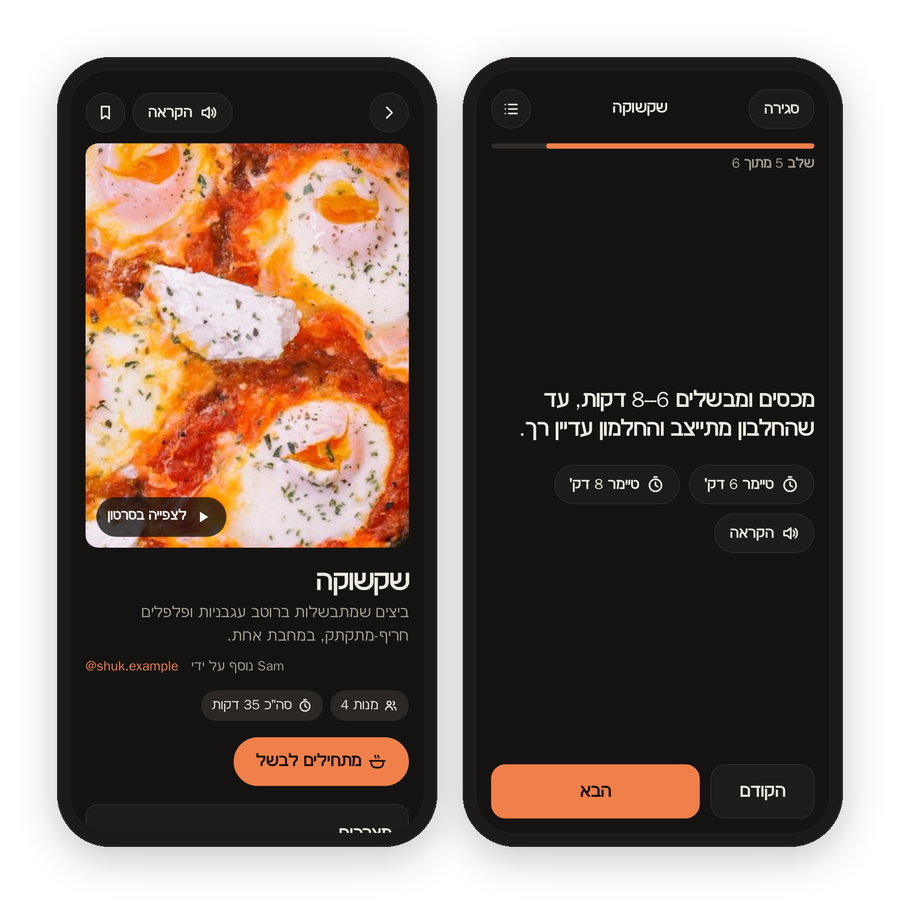
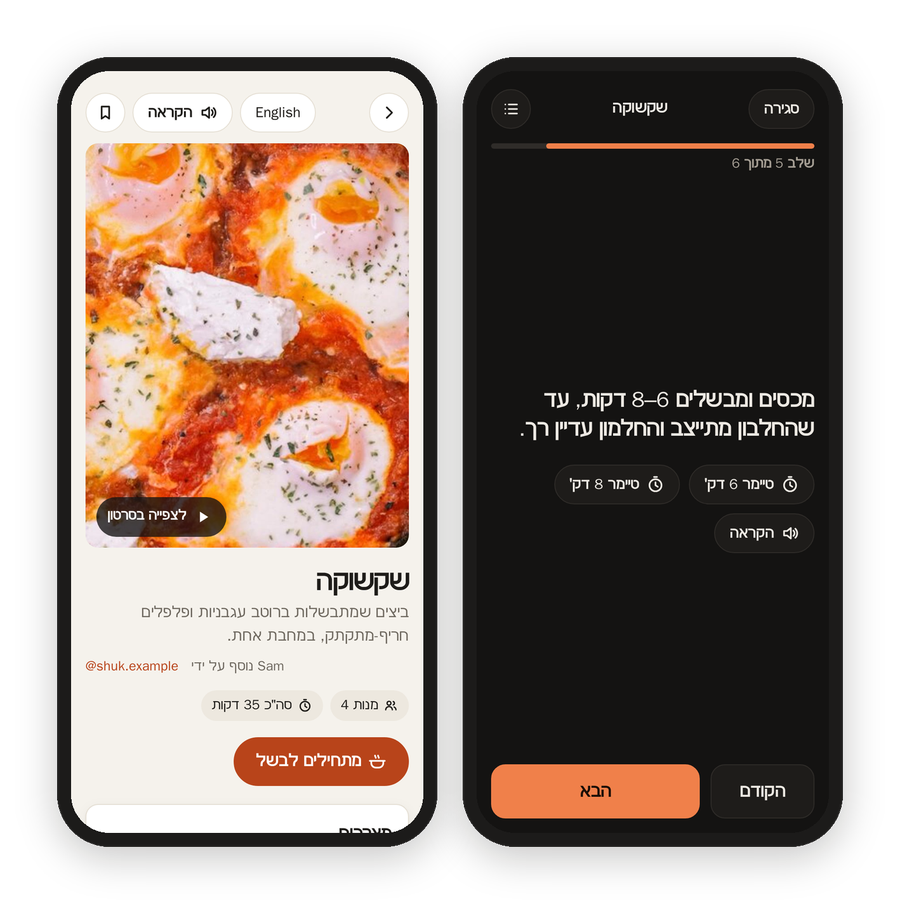
The guide: docs/ for docs.tiresia.xyz
What Matkon is, accounts and invites, recipes, cooking, memory and
history, settings, from reel to recipe, and Obsidian notes, with framed
screens from the demo. The front page links them.

Changed region(s): [[0.0622, 0.0619, 0.4978, 0.9292]]

diff --git a/tools/readme_images.py b/tools/readme_images.py
@@ -4,7 +4,7 @@ screens get a device frame and a soft shadow, and the hero puts a tablet between
 
   python3 tools/readme_images.py <shots dir>      needs Pillow
 The shots it expects: home, ramen, cook, cook-dark, he, he-cook, home-tab, cookies-tab, missing (full),
-cookies-full (full), history, imported, cookdone, settings (full).
+cookies-full (full), history, imported, cookdone, settings (full), and for docs/: signin, join, he-en.
 """
 import shutil
 import sys
@@ -132,6 +132,13 @@ def main():
     m = m.crop((0, 1580, m.width, min(m.height, 3880)))
     card, _ = shadowed(rounded(m, 40), blur=26, offset=(0, 14), alpha=55)
     save(card, "missing.png", 700)
+
+    # single phones for the guide pages in docs/
+    for name, out in [("signin", "signin.png"), ("join", "join.png"), ("cook", "cook.png"), ("he-en", "english.png"),
+                      ("settings", "settings.png"), ("history", "history.png"), ("home", "home.png")]:
+        if (shots / f"{name}.png").exists():
+            p, _ = shadowed(phone(shots / f"{name}.png", 1200), blur=30, offset=(0, 16), alpha=60)
+            save(p, out, 520)
 
     shutil.copyfile(ROOT / "app" / "icon-512.png", OUT / "icon.png")
     print("icon.png")

diff --git a/docs/how-it-works.md b/docs/how-it-works.md
@@ -1,0 +1,35 @@
+<sub>[Matkon docs](README.md) › How it works</sub>
+
+# From reel to recipe
+
+![Save, Watch, Follow, Write, Cook](images/how-it-works.svg)
+
+Every hour during the day, Matkon looks at the newest saved posts of everyone who connected Instagram, and once a week at all of them. Each new reel in a recipe collection goes through these steps, one after the other. Each step leaves its file behind, so if something stops halfway, the next run picks up where it left off.
+
+1. **The video.** yt-dlp downloads the reel with the sign-in of whoever added it.
+2. **What's said.** faster-whisper writes out the speech, on the server itself. A silent reel just skips this.
+3. **What's on screen.** A frame every second and a half (32 at most), four to a sheet, so the words the creator puts on screen can be read.
+4. **The linked page.** When the caption links the creator's own recipe page ("full recipe on my blog"), Matkon reads it once. Recipe sites usually carry the recipe as data for search engines, with every amount, and Matkon takes that when it's there. A link to a Substack's front page gets a search of that Substack for the dish. A page behind a paywall gives what it gives.
+5. **The recipe.** Claude gets the caption, what's said, the frame sheets and the linked page in one message, with no tools at all, and writes the recipe back as data. It also picks the frame where the finished dish fills the picture, which becomes the photo.
+6. **The note** in the owner's Obsidian vault. See [Obsidian notes](obsidian-notes.md).
+7. **The English version,** when the recipe is in Hebrew. Claude translates it, and Matkon checks that it has the same ingredient groups, ingredients, steps and tips in the same order, and the same timers, before keeping it.
+
+## Only what the reel says
+
+This is the one rule that matters. Claude is told to use only the caption, the speech, the words on screen, what's plainly shown and the creator's own page, and never to estimate an amount, a time, a temperature or a number of servings.
+
+- An ingredient with no amount says **no amount**.
+- **Not in the reel** lists what a cook would still need: "how much spaghetti and how many mushrooms", "how long to brown them".
+- A recipe is marked complete only when every ingredient has its amount (or "to taste") and there are steps. Otherwise its card says **Missing amounts**.
+- Calories and protein are copied only as the reel states them.
+- A reel that isn't a recipe at all (someone showing off their pans, say) is kept out of the list.
+
+<p align="center"><img src="images/missing.png" width="340" alt="A mushroom spaghetti recipe whose reel says to comment PASTA: every ingredient with no amount, and the Not in the reel list"></p>
+
+Plenty of creators keep the amounts for "comment RECIPE and I'll DM you," so a lot of recipes come out with something missing. Basically, the page tells you exactly what to fill in yourself, instead of quietly making it up.
+
+## Languages
+
+Hebrew reels are written in Hebrew, and get their English version in step 7. Reels in any other language (Turkish, Arabic, Spanish…) come out in English straight away. A dish's own name stays its name: Shakshuka, Pad Kra Pao, Tarte Tatin.
+
+Next: [Obsidian notes](obsidian-notes.md)

diff --git a/docs/settings.md b/docs/settings.md
@@ -1,0 +1,48 @@
+<sub>[Matkon docs](README.md) › Using it</sub>
+
+# Settings
+
+The gear at the top of every page opens Settings. Everything here is for your own account, except the last two parts, which only the owner sees.
+
+<p align="center"><img src="images/settings.png" width="300" alt="Settings: Account with name, username and password, and Display"></p>
+
+## Account
+
+- **Name:** how you show up to everyone else ("Added by Sara").
+- **Email:** for signing in with it and for a forgotten password. A new email gets a 6-digit code first, to make sure it's yours.
+- **Password:** your current one, then the new one. Changing it signs this account out on every other device.
+- **Sign out.**
+
+## Display
+
+- **Calories and protein:** off means you never see nutrition numbers on any recipe, even when the reel gives them. They're taken out before the recipe even reaches your device.
+- **Hebrew recipes in English:** on means Hebrew recipes open in English, and their cards show the English names. The button on each recipe still switches back.
+
+## Instagram
+
+This is how your own saved reels join the kitchen.
+
+1. **Connect:** give Matkon your Instagram sign-in as a `cookies.txt` file, from a browser that's signed in to Instagram. Any extension that exports cookies.txt will do; choose the file or paste what's in it, and tap **Connect**.
+2. **Find my collections:** Matkon looks through your saved posts (it takes a minute or two) and lists your collections, each with a few of its captions so you can tell which one is the recipes. Instagram doesn't hand out collection names anymore, which is why it shows captions.
+3. **Tap your recipe collection** to pick it. From then on the hourly run reads it with your sign-in, and its reels join the kitchen with your name on them.
+
+If Instagram ever turns the sign-in away, this part says **Sign-in lapsed** and the home page says so too, and nothing new comes in until you connect again.
+
+## Add a reel
+
+Paste the link of any Instagram reel and tap **Add**, even one that isn't in a collection. It shows up in the kitchen a few minutes later.
+
+## Kitchen (the owner)
+
+- **Check now:** reads the collections right away, instead of waiting for the hour.
+- **Pages each hour:** how many pages of newest saves an hourly run looks at (21 posts a page).
+- **Every save, every (hours):** how often a run looks through every saved post, for an old save moved into a collection (168 is once a week).
+- **Reels each run:** how many reels a run works through at most.
+- **Notes folder, Photos folder, Note tag:** where the Obsidian notes go, and a tag for them. See [Obsidian notes](obsidian-notes.md).
+- **App address:** Matkon's own address, for the link in each note and in invites.
+
+## Accounts (the owner)
+
+Everyone's accounts, with a new password or a bin for each, **Invite** by email, and **New account** by hand. See [Accounts and invites](accounts-and-invites.md).
+
+Next: [From reel to recipe](how-it-works.md)

diff --git a/docs/recipes.md b/docs/recipes.md
@@ -1,0 +1,44 @@
+<sub>[Matkon docs](README.md) › Using it</sub>
+
+# Recipes
+
+## The home page
+
+Every recipe in the kitchen, newest first, as cards with the photo, the dish and the creator. A card says **Missing amounts** when the reel didn't give them all, and the little marks on the photo are yours: saved, made, and your rating.
+
+<p align="center"><img src="images/home.png" width="300" alt="The home page: search, kinds, the Up next row and recipe cards"></p>
+
+- **Search** looks at the dish, the creator, the cuisine and every ingredient, so "chickpeas" finds the hummus. Hebrew recipes are found by their English words too.
+- **The kinds** under the search are All, Saved, Made, and then Breakfast, Mains, Salads & sides, Soups, Bread & dough, Baking & sweets, Snacks, Sauces & dips and Drinks.
+- **Up next** is a row of what to make, picked from what you save, cook and rate. See [Memory and history](memory-and-history.md#up-next).
+
+## A recipe
+
+The top of a recipe has the photo (a still of the finished dish from the reel), the name, a line about what it is, the creator's account and their recipe page when there is one, and the facts the reel gives: how many it serves or makes, the times, the oven.
+
+- **Watch the reel** plays the video right there.
+- **Start cooking** opens [cooking mode](cooking.md). If you were in the middle of it, it says **Continue · step 4**.
+- **Ingredients** tick off as you tap them, and the ticks are remembered on all your devices for 12 hours.
+- **Steps** come with a timer button wherever a step gives a time.
+- **Tips** are the creator's own asides.
+- **Nutrition** shows only when the reel states it, and only if your account has it on.
+- **Not in the reel** lists what a cook would still need that the reel didn't give, like "how much butter and garlic".
+- **Mine** is yours: I made it, a rating and notes. See [Memory and history](memory-and-history.md).
+
+![A recipe on a tablet](images/tablet.png)
+
+On a tablet or a computer, the photo stays on the side and the ingredients and steps sit next to each other.
+
+## Hebrew and English
+
+A Hebrew recipe has a button at the top that says **English**. It switches the whole page to an English version, left to right, and the button turns into **עברית** to switch back. Your ticks, notes and place in the steps stay the same, because the English version has the same ingredients and steps in the same order. Cooking mode follows whichever one you picked.
+
+<p align="center"><img src="images/english.png" width="300" alt="A shakshuka recipe in English, with the עברית button at the top"></p>
+
+If you'd rather always read Hebrew recipes in English, turn on **Hebrew recipes in English** in [Settings](settings.md).
+
+## Read aloud
+
+**Read aloud** at the top reads the whole recipe, the ingredients then the steps, in the browser's own voice (a Hebrew voice for a Hebrew recipe, if the device has one).
+
+Next: [Cooking](cooking.md)

diff --git a/docs/what-is-matkon.md b/docs/what-is-matkon.md
@@ -1,0 +1,32 @@
+<sub>[Matkon docs](README.md) › Getting started</sub>
+
+# What is Matkon?
+
+Matkon (מתכון, Hebrew for "recipe") takes the cooking reels I save to my "Recipes" collection on Instagram and turns each one into a real recipe page: the ingredients with their amounts, the steps in order, the creator's tips, and the reel itself one tap away. I save a reel the way I always do, and within the hour it's in Matkon, and in my Obsidian vault too.
+
+![Matkon on a tablet between two phones](images/hero.png)
+*The home page, a recipe on a tablet, and cooking mode in the dark.*
+
+## What it does
+
+- **Reads the collection on its own,** every hour during the day, so I never send it anything.
+- **Writes down only what the reel gives.** If the creator never says how much flour, the page says "no amount" and lists it under "Not in the reel," instead of guessing. See [From reel to recipe](how-it-works.md).
+- **Finds the real recipe** on the creator's blog or newsletter when the caption links one, since that's usually where the amounts are.
+- **Cooking mode,** one step at a time, with that step's amounts right under it and timers. See [Cooking](cooking.md).
+- **Remembers,** on every device: what you saved, made, rated and wrote down. See [Memory and history](memory-and-history.md).
+- **Hebrew and English.** Hebrew reels stay in Hebrew, right to left, and each one also has an English version one tap away.
+- **One kitchen for the whole house.** Everyone has their own account, and anyone can add their own Instagram collection to it. See [Accounts and invites](accounts-and-invites.md).
+
+## Where you open it
+
+Matkon is a web page, so it works on a phone, a tablet or a computer, in light or dark mode. Mine is at my own address, and it only opens for people with an account. On a phone, "Add to Home Screen" makes it open like an app.
+
+## Signing in
+
+Everyone signs in with a username (or their email) and a password, once on each device. It stays signed in for a year, unless the password changes, which signs that account out everywhere.
+
+<p align="center"><img src="images/signin.png" width="300" alt="The sign-in page: username or email, password, Sign in, and I have a code and Forgot password underneath"></p>
+
+There's no open sign-up. I invite people by email, and they join with the code. See [Accounts and invites](accounts-and-invites.md).
+
+Next: [Accounts and invites](accounts-and-invites.md)

diff --git a/docs/obsidian-notes.md b/docs/obsidian-notes.md
@@ -1,0 +1,36 @@
+<sub>[Matkon docs](README.md) › How it works</sub>
+
+# Obsidian notes
+
+When the owner gives Matkon an Obsidian vault, every recipe also becomes a note in it, next to the recipes already there, so a Bases view of your Recipes lists them with everything else.
+
+## What's in a note
+
+The front matter is the usual recipe kind, so a Bases view picks it up:
+
+| Key | What it holds |
+| --- | --- |
+| `categories` | `[[Recipes]]` |
+| `cuisine`, `type` | the cuisine, and the kind plus a few tags |
+| `ingredients` | the three to six main ingredients |
+| `author` | the creator's account |
+| `url` | the reel |
+| `image` | the photo, saved in the photos folder |
+| `rating`, `cooked`, `last` | the owner's rating, whether they've made it, and when they last did |
+| `tags` | `recipes` and `instagram-reels` |
+| `matkon` | the reel's code, which is how Matkon finds the note again |
+
+The body has the photo, the facts (serves, times, oven), the ingredients, the steps (numbered), the tips, the nutrition when the reel gives it, **Not in the reel**, the links to the reel, the creator's page and the recipe in Matkon, and a **Notes** heading at the end. A Hebrew recipe's note is in Hebrew, with Hebrew headings. A tag of your choice can go on its own line above the title (Settings › Kitchen).
+
+## What Matkon will and won't change
+
+- **The note is found by its `matkon:` line,** wherever you've moved it.
+- **Once you edit the body, it's yours.** Matkon only rewrites a note while its body is still exactly what Matkon wrote, and leaves it alone the moment you change a word.
+- **The front matter stays yours.** Obsidian's plugins reformat front matter on their own (quotes, an `updated:` line), so Matkon never judges a note by it and keeps it as it is when it refreshes the body.
+- **Your rating, cooked and last** are the only front matter keys Matkon writes, whenever you rate or make a recipe in the app.
+- **Your notes from the app** go under the Notes heading, while the body is still Matkon's.
+- **A note with the same name already there** (say you already wrote your own Shakshuka) stays put, and Matkon's comes in as "Shakshuka (@the.creator)" next to it.
+
+Only the owner's memory goes into the notes, since the vault is theirs. Everyone else's stays in Matkon.
+
+Next: [Developing and running it](DEVELOPING.md)

diff --git a/docs/memory-and-history.md b/docs/memory-and-history.md
@@ -1,0 +1,41 @@
+<sub>[Matkon docs](README.md) › Using it</sub>
+
+# Memory and history
+
+Matkon remembers things for each account, on the server, so your phone, your tablet and your computer all see the same thing.
+
+![History, imports, rating and notes after cooking, and Settings](images/memory.png)
+
+## What it remembers
+
+- **Saved:** the bookmark at the top of a recipe. Saved recipes have their own kind on the home page.
+- **Made:** "I made it" on a recipe (or **Done** at the end of cooking mode) counts it, with the date. The recipe then says "Made 3 times · 2 Nov".
+- **Rating:** 1 to 10, under "Mine" on the recipe. Tap the same number again to take it away.
+- **Notes:** your own words under "Mine". They save as you type.
+- **Ticked ingredients and the step you're on,** for 12 hours, so the next time you cook it starts fresh.
+- **What you opened lately.**
+
+For the owner, the rating, "made" and the notes also go into the recipe's Obsidian note. See [Obsidian notes](obsidian-notes.md).
+
+## Up next
+
+The row at the top of the home page is Matkon's guess at what you'd want to make, from what you've done so far. Each one says why:
+
+- **Saved:** you saved it and never made it.
+- **Not made since 12 Oct:** you rated it 8 or more, and it's been a couple of weeks.
+- **Like Brown Butter Cookies:** it shares a kind, a cuisine or main ingredients with the ones you rate highly or keep making.
+- **New:** it came in during the last 10 days and you haven't opened it.
+
+It leaves out anything you rated 4 or less, and anything you made in the last 5 days. The more you save, cook and rate, the better it gets.
+
+## History
+
+The clock at the top of every page opens History, with three tabs:
+
+<p align="center"><img src="images/history.png" width="300" alt="History, Cooked: five recipes with the dates they were made"></p>
+
+- **Cooked:** everything you made, newest first, with the date. The bin on a line takes it away, for the time you tapped "I made it" by mistake.
+- **Viewed:** what you opened lately.
+- **Imported:** every time Matkon brought recipes in, with who added them, and anything that went wrong (a reel it couldn't get, or an Instagram sign-in that lapsed).
+
+Next: [Settings](settings.md)

diff --git a/docs/accounts-and-invites.md b/docs/accounts-and-invites.md
@@ -1,0 +1,36 @@
+<sub>[Matkon docs](README.md) › Getting started</sub>
+
+# Accounts and invites
+
+Matkon is one kitchen for a few people. Everyone sees every recipe, and each person has their own account, with their own saved recipes, notes, ratings, history and suggestions. Nobody can sign up on their own: the owner invites them.
+
+## Joining with an invite
+
+When I invite you, you get an email from Matkon with a code like `KSYP-F8FN` and a link.
+
+1. Open the link. Matkon opens with your email and the code already filled in.
+2. Add your name, pick a username and a password (at least 8 characters), and tap **Join**.
+
+That's it, you're in. If the link doesn't open, go to Matkon, tap **I have a code**, and type your email and the code yourself. The code works for 7 days, and only once.
+
+<p align="center"><img src="images/join.png" width="300" alt="Joining: email and code filled in, then name, username and password, and Join"></p>
+
+## Signing in with your email
+
+You can sign in with your username or with your email, whichever you remember.
+
+## A forgotten password
+
+Tap **Forgot password** on the sign-in page and type your email. Matkon sends a 6-digit code that works for 15 minutes; type it with a new password and you're signed in. This needs an email on your account: if you joined with an invite, you have one, and otherwise you can add it in [Settings](settings.md).
+
+## Inviting someone (the owner)
+
+In **Settings › Accounts › Invite**, type their email and, if you like, their name, and tap **Send invite**. The invite waits in the list until they join, and you can cancel it there. If the email can't go out for some reason, Matkon shows you the code and the link so you can send them yourself.
+
+The owner can also make an account by hand (name, username and password), set a new password for someone, or remove an account.
+
+## Your own Instagram, too
+
+Anyone can connect their own Instagram and pick one of their saved collections, and the reels in it join the kitchen with their name on them ("Added by Sara"). See [Settings](settings.md#instagram).
+
+Next: [Recipes](recipes.md)

diff --git a/docs/README.md b/docs/README.md
@@ -1,0 +1,26 @@
+<p align="center"><img src="images/icon.png" width="72" alt=""></p>
+<h1 align="center">Matkon docs</h1>
+<p align="center">How Matkon turns saved cooking reels into recipes, and how to cook, remember and share with it.</p>
+
+These pages are how Matkon works, written down. It takes the cooking reels I save on Instagram and turns each one into a recipe I can actually cook from. If something here doesn't match what Matkon does, Matkon wins, and I fix the page.
+
+### Getting started
+- [What is Matkon?](what-is-matkon.md): what it does, where you open it, and signing in
+- [Accounts and invites](accounts-and-invites.md): joining with an invite, signing in with your email, and a forgotten password
+- [Why I made it](../README.md#why-i-made-it): the story, on the front page
+
+### Using it
+- [Recipes](recipes.md): the home page, search, a recipe, the reel, and Hebrew or English
+- [Cooking](cooking.md): one step at a time, with the amounts, timers and read-aloud
+- [Memory and history](memory-and-history.md): saving, "I made it", ratings, notes, Up next, and History
+- [Settings](settings.md): your account, what you see, Instagram, adding a reel, and the kitchen
+
+### How it works
+- [From reel to recipe](how-it-works.md): every step a reel goes through, and the "only what the reel says" rule
+- [Obsidian notes](obsidian-notes.md): the note each recipe gets, and what Matkon will and won't change in it
+
+### Under the hood
+- [Setting it up](../README.md#setting-it-up): the install, the cookies file and the first run, on the front page
+- [Developing and running it](DEVELOPING.md): the files, the state folder, the traps, and the pictures
+
+Start with [What is Matkon?](what-is-matkon.md).

diff --git a/README.md b/README.md
@@ -17,7 +17,7 @@
   <a href="#how-it-works">How it works</a> ·
   <a href="#setting-it-up">Setting it up</a> ·
   <a href="#settings">Settings</a> ·
-  <a href="docs/DEVELOPING.md">Developing</a>
+  <a href="docs/README.md"><b>Docs</b></a>
 </p>
 
 <img src="docs/images/hero.png" alt="Matkon on a phone, a tablet and a phone in dark mode: the home page with recipe cards, a recipe for brown butter chocolate chip cookies with its ingredients and steps, and cooking mode on the first step of a miso ramen">
@@ -170,6 +170,10 @@ Under the hood there are two small files. **`matkon.env`**, for where things are
 - The pages hold other people's videos and recipes, so keep the kitchen to your own people. Everything but the sign-in page needs an account, and if you open it to the internet, do it over HTTPS (a Cloudflare Tunnel works well), so the sign-in cookie stays secure.
 - Your notes, ratings and what you cooked go into the owner's Obsidian notes too (front matter `rating`, `cooked`, `last`, and the Notes heading), as long as you haven't rewritten the note yourself.
 - The creators did the cooking. Every page links back to the reel and to the creator's own recipe page.
+
+## Docs
+
+The full guide is in [docs/](docs/README.md), and on the web at [docs.tiresia.xyz/matkon](https://docs.tiresia.xyz/matkon/): [what Matkon is](docs/what-is-matkon.md), [accounts and invites](docs/accounts-and-invites.md), [recipes](docs/recipes.md), [cooking](docs/cooking.md), [memory and history](docs/memory-and-history.md), [settings](docs/settings.md), [from reel to recipe](docs/how-it-works.md), [Obsidian notes](docs/obsidian-notes.md), and [developing it](docs/DEVELOPING.md).
 
 ## License
 

diff --git a/docs/cooking.md b/docs/cooking.md
@@ -1,0 +1,22 @@
+<sub>[Matkon docs](README.md) › Using it</sub>
+
+# Cooking
+
+**Start cooking** on a recipe opens cooking mode: one step at a time, in big letters, so you can read it from across the counter with flour on your hands.
+
+<p align="center"><img src="images/cook.png" width="300" alt="Cooking mode on a pancake step: the step in big letters, Uses 3 tbsp butter, two timers, Read aloud, and Back and Next"></p>
+
+- **Uses** under each step lists the ingredients that step names, with their amounts, so you don't have to scroll back up to find out how much.
+- **Timers** appear when a step gives a time ("bake 10 to 12 minutes" gives you both). A timer keeps going when you move on, shows at the bottom of every page, and keeps going if the page reloads. When it's done it beeps, buzzes the phone if it can, and puts a big "Time's up" on the screen.
+- **Read aloud** reads just that step.
+- **The list button** at the top opens the ingredients, to tick them off without leaving the step.
+- **Back** and **Next** at the bottom, or the arrow keys and the space bar on a keyboard.
+- **The screen stays on** while you cook, on devices that allow it.
+
+Matkon remembers which step you're on for 12 hours, on all your devices. So you can start on the tablet, walk away, and pick it up on your phone at the same step.
+
+## Done
+
+The last step's button is **Done**. It counts it as made today, and then asks how it was: a rating from 1 to 10 and a place for notes ("20g less sugar next time"). Both are optional, and both show on the recipe the next time you open it.
+
+Next: [Memory and history](memory-and-history.md)
